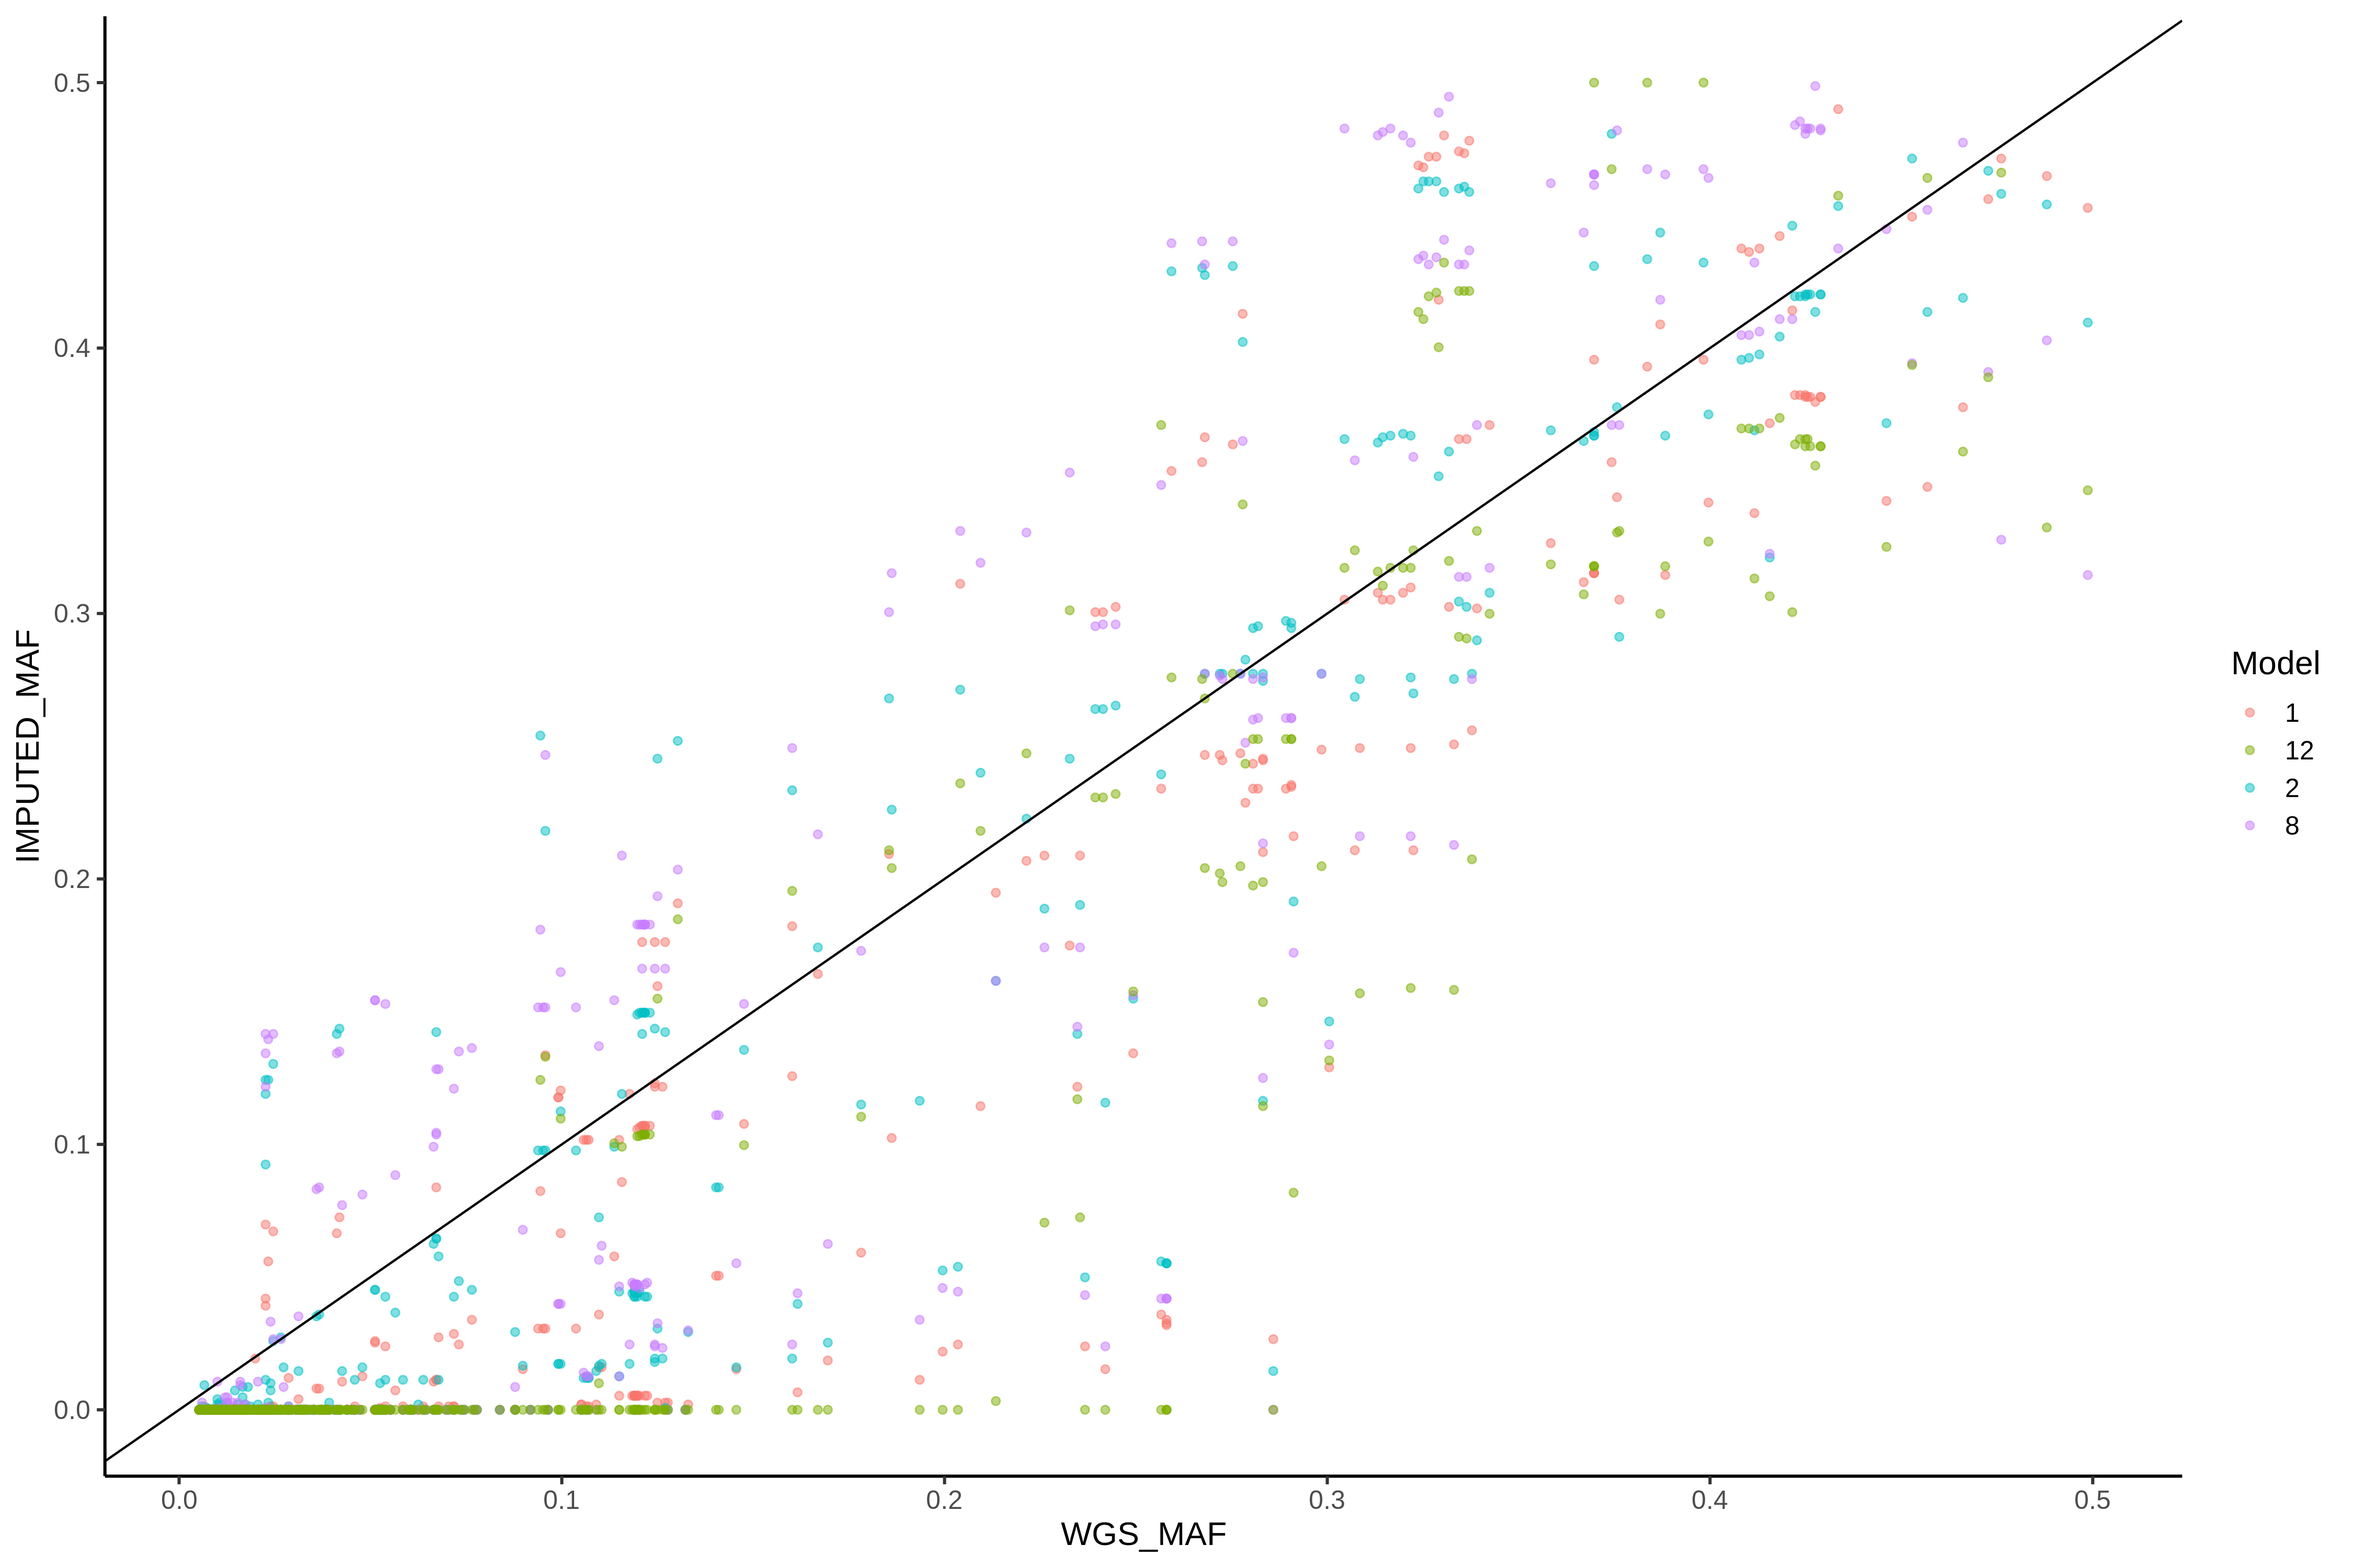
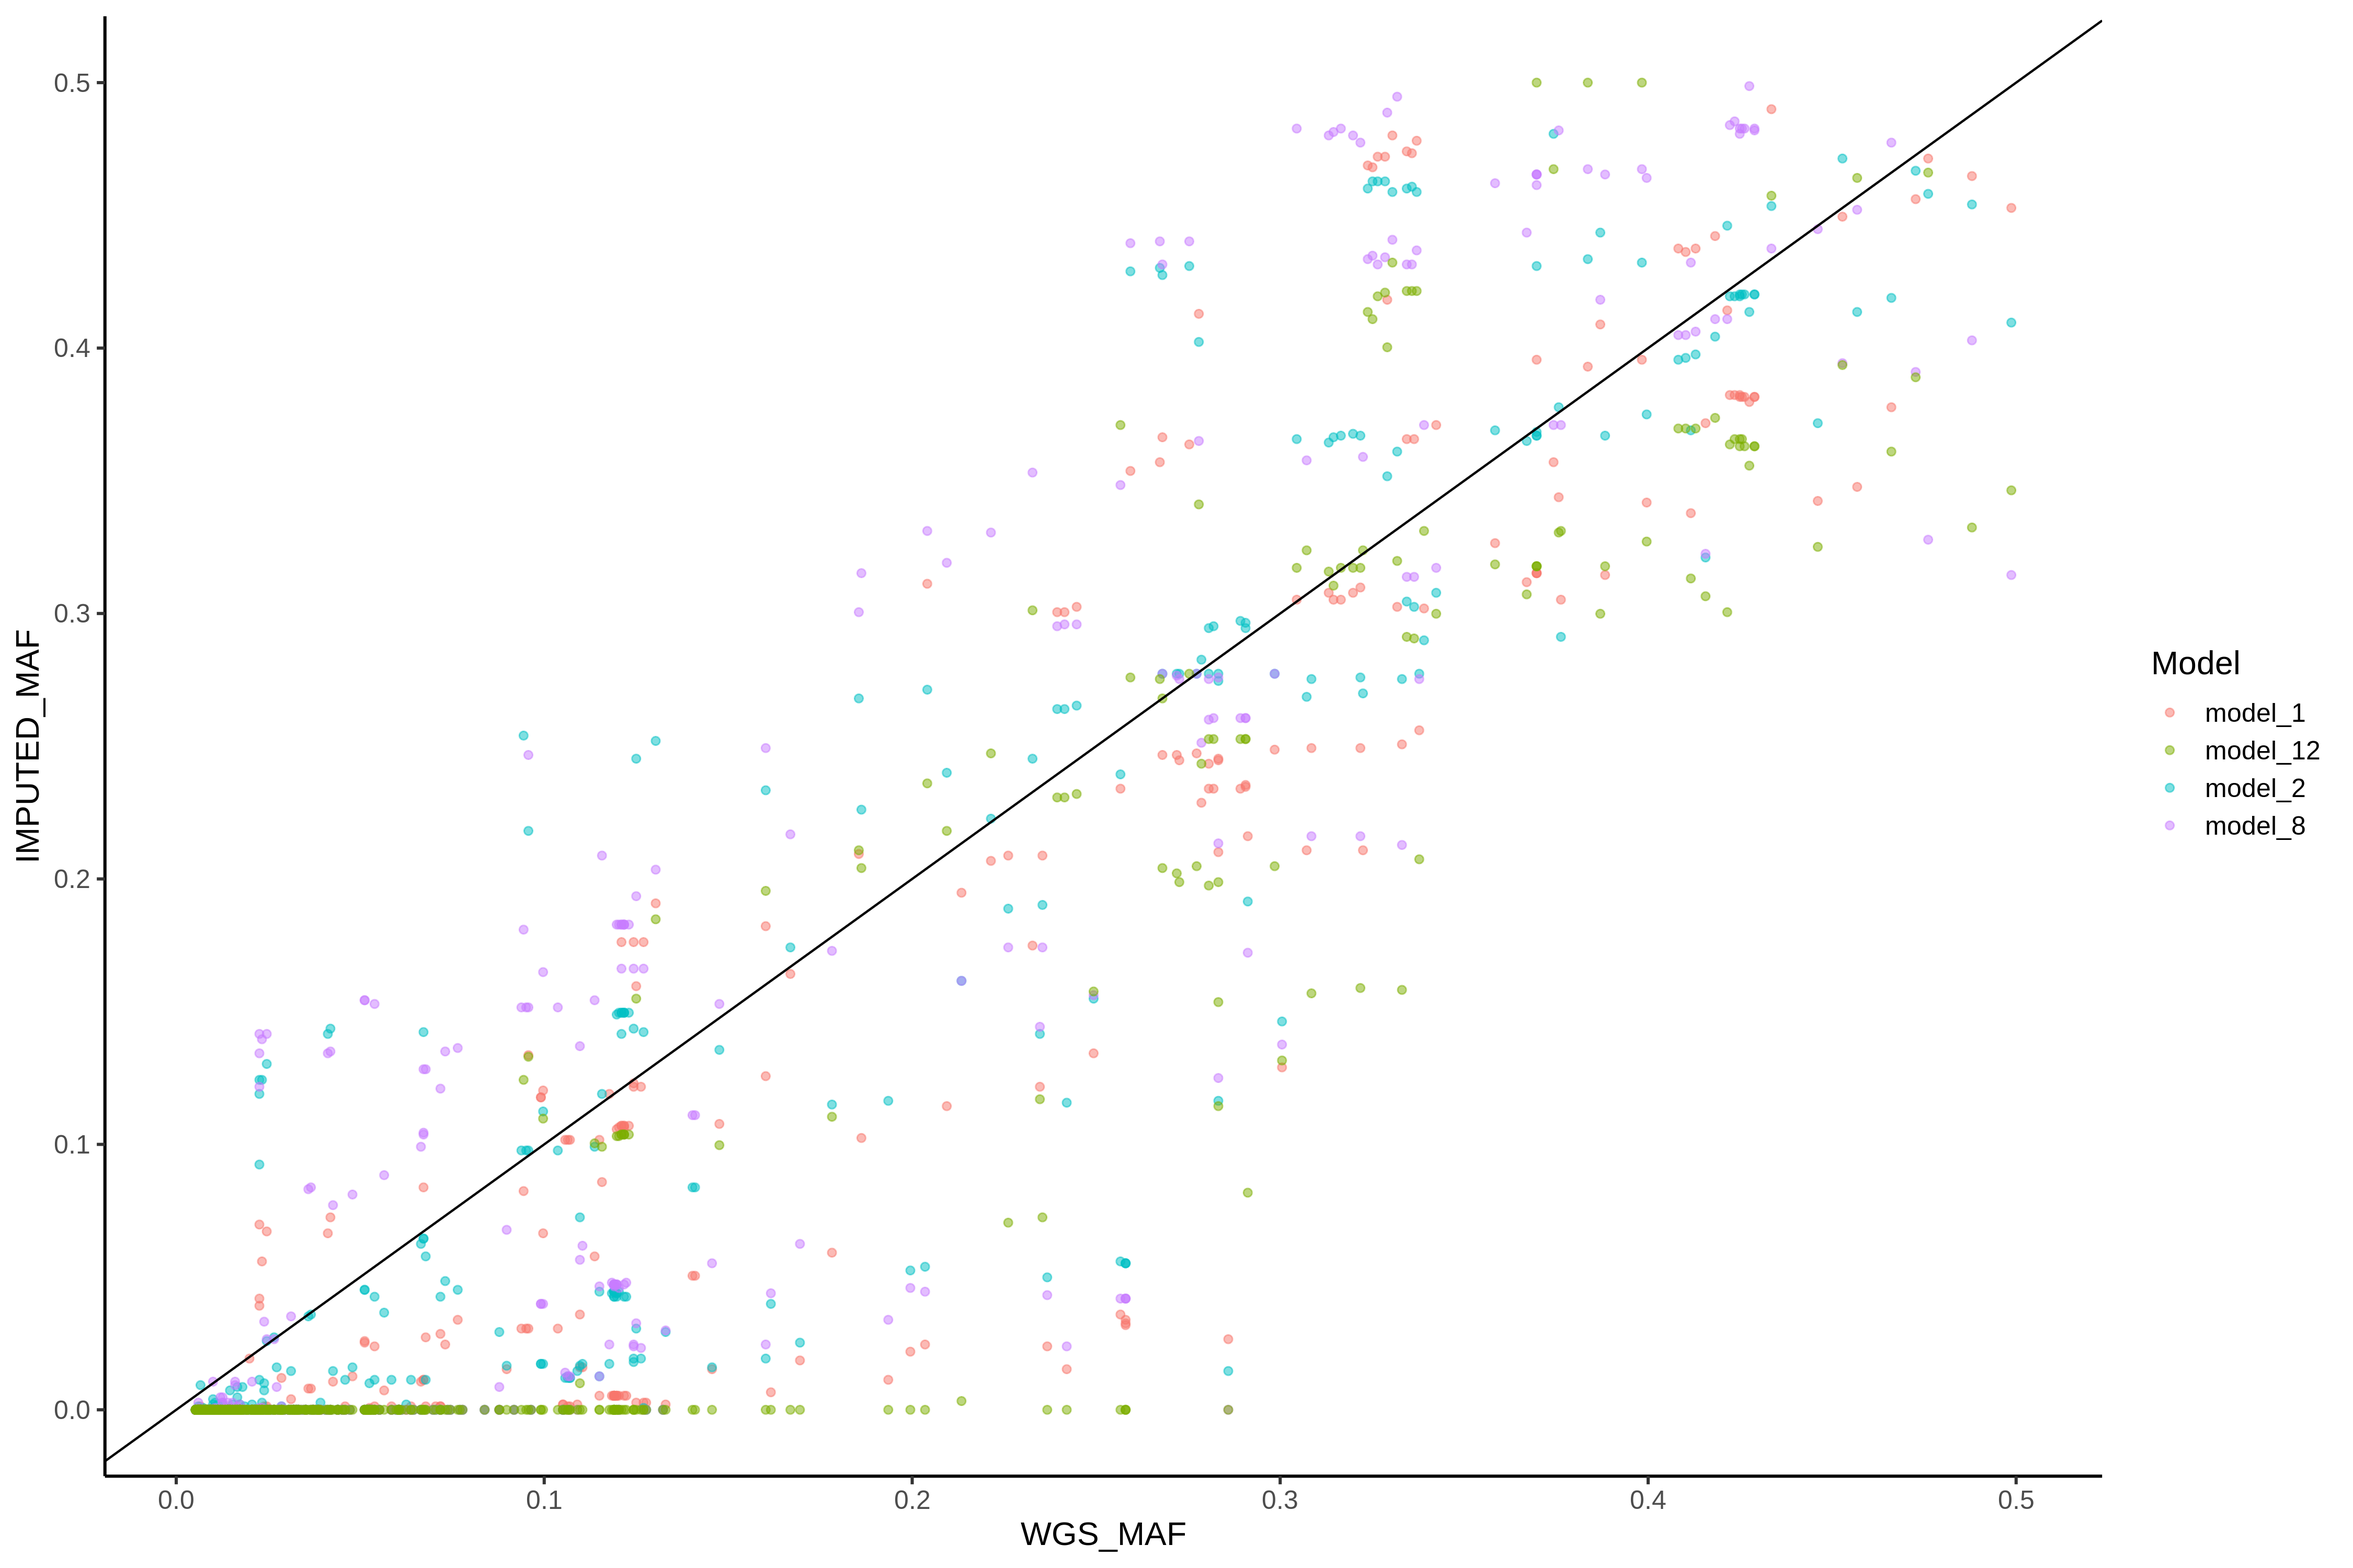
plotting improved, added correct and automatic labeling of the models, support for custom models and threshold as well

diff --git a/autoencoder_tuning_validation_pytorch/README.md b/autoencoder_tuning_validation_pytorch/README.md
@@ -52,48 +52,12 @@ CUDA_VISIBLE_DEVICES=0 python3 DSAE_TORCH_ARG.py --input my_VMV_file.vcf \
     --optimizer rmsprop --loss_type FL --n_layers 8 --size_ratio 0.7 --decay_rate 0.5
 ```
 
-I made a simple bash helper script that will do this replacement automatically:  
-
-- usage: 
-```
-bash make_training_script_from_template.sh <template.sh> <input.vcf> <max_gpus>
-```
-
-- example:
-```
-bash make_training_script_from_template.sh 100_random_hyperparameters.sh examples/HRC.r1-1.EGA.GRCh37.chr22.haplotypes.38708556-38866010.vcf.VMV1 4
-```
-
-- test:
-```
-bash make_training_script_from_template.sh 100_random_hyperparameters.sh examples/HRC.r1-1.EGA.GRCh37.chr22.haplotypes.38708556-38866010.vcf.VMV1 4
-```
-
-You will see this report giving instructions on how to run the models either sequentially or in parallel:
-```
-Sequential training script generated at HRC.r1-1.EGA.GRCh37.chr22.haplotypes.38708556-38866010.vcf.VMV1_100_random_hyperparameters.sh
-
-Parallel training script for GPU 0 at HRC.r1-1.EGA.GRCh37.chr22.haplotypes.38708556-38866010.vcf.VMV1_100_random_hyperparameters.sh.GPU0.parallel.sh
-Parallel training script for GPU 1 at HRC.r1-1.EGA.GRCh37.chr22.haplotypes.38708556-38866010.vcf.VMV1_100_random_hyperparameters.sh.GPU1.parallel.sh
-Parallel training script for GPU 2 at HRC.r1-1.EGA.GRCh37.chr22.haplotypes.38708556-38866010.vcf.VMV1_100_random_hyperparameters.sh.GPU2.parallel.sh
-Parallel training script for GPU 3 at HRC.r1-1.EGA.GRCh37.chr22.haplotypes.38708556-38866010.vcf.VMV1_100_random_hyperparameters.sh.GPU3.parallel.sh
-```
-
-Parallel run automation example, if you want to distribute multiple jobs/models per GPU.
-Let's say we are running 3 models per GPU (12 models total if you have 4 GPUs, 6 if you ave 2 GPUs, etc), for example, then the parallel runs would be like:
-```
-nohup parallel -j 3 < HRC.r1-1.EGA.GRCh37.chr22.haplotypes.38708556-38866010.vcf.VMV1_100_random_hyperparameters.sh.GPU0.parallel.sh &
-nohup parallel -j 3 < HRC.r1-1.EGA.GRCh37.chr22.haplotypes.38708556-38866010.vcf.VMV1_100_random_hyperparameters.sh.GPU1.parallel.sh &
-nohup parallel -j 3 < HRC.r1-1.EGA.GRCh37.chr22.haplotypes.38708556-38866010.vcf.VMV1_100_random_hyperparameters.sh.GPU2.parallel.sh &
-nohup parallel -j 3 < HRC.r1-1.EGA.GRCh37.chr22.haplotypes.38708556-38866010.vcf.VMV1_100_random_hyperparameters.sh.GPU3.parallel.sh &
-```
-
-You should test different values for parallel's -j argument to find out what is the maximum number of parallel models you will be able to run in a single GPU before reaching the VRAM or CPU bottleneck.
-If you are using a cluster with SLURM/TORQUE, put the "parallel -j 3 < HRC.r1-1.EGA.GRCh37.chr22.haplotypes.38708556-38866010.vcf.VMV1_100_random_hyperparameters.sh.<gpu_id>.parallel.sh" inside a SLURM sbatch job script or TORQUE qsub script
-
+I made a simple bash helper script that will do this replacement automatically and run all training jobs (see section 2.2).  
 
 
 ## 2. Train the models
+
+### 2.1 Running training (single model example)
 
 To run training, just execute the script DSAE_TORCH_ARG.py following the example listed bellow. For quick testing, only --input, --min_mask, and --max_mask are required (the hyperparameters will then be set to their default values).
 For example:
@@ -182,6 +146,48 @@ optional arguments:
                         [str] path/directory to save the model
 ```
 
+### 2.2. Running training (multiple models, automated run example)
+
+I made a simple bash helper script that will generate the training commands automatically keeping a standardized file naming syntax.
+
+- usage: 
+```
+bash make_training_script_from_template.sh <template.sh> <input.vcf> <max_gpus>
+```
+
+- example:
+```
+bash make_training_script_from_template.sh 100_random_hyperparameters.sh examples/HRC.r1-1.EGA.GRCh37.chr22.haplotypes.38708556-38866010.vcf.VMV1 4
+```
+
+- test:
+```
+bash make_training_script_from_template.sh 100_random_hyperparameters.sh examples/HRC.r1-1.EGA.GRCh37.chr22.haplotypes.38708556-38866010.vcf.VMV1 4
+```
+
+You will see this report giving instructions on how to run the models either sequentially or in parallel:
+```
+Sequential training script generated at HRC.r1-1.EGA.GRCh37.chr22.haplotypes.38708556-38866010.vcf.VMV1_100_random_hyperparameters.sh
+
+Parallel training script for GPU 0 at HRC.r1-1.EGA.GRCh37.chr22.haplotypes.38708556-38866010.vcf.VMV1_100_random_hyperparameters.sh.GPU0.parallel.sh
+Parallel training script for GPU 1 at HRC.r1-1.EGA.GRCh37.chr22.haplotypes.38708556-38866010.vcf.VMV1_100_random_hyperparameters.sh.GPU1.parallel.sh
+Parallel training script for GPU 2 at HRC.r1-1.EGA.GRCh37.chr22.haplotypes.38708556-38866010.vcf.VMV1_100_random_hyperparameters.sh.GPU2.parallel.sh
+Parallel training script for GPU 3 at HRC.r1-1.EGA.GRCh37.chr22.haplotypes.38708556-38866010.vcf.VMV1_100_random_hyperparameters.sh.GPU3.parallel.sh
+```
+
+Parallel run automation example, if you want to distribute multiple jobs/models per GPU.
+Let's say we are running 3 models per GPU (12 models total if you have 4 GPUs, 6 if you ave 2 GPUs, etc), for example, then the parallel runs would be like:
+```
+nohup parallel -j 3 < HRC.r1-1.EGA.GRCh37.chr22.haplotypes.38708556-38866010.vcf.VMV1_100_random_hyperparameters.sh.GPU0.parallel.sh &
+nohup parallel -j 3 < HRC.r1-1.EGA.GRCh37.chr22.haplotypes.38708556-38866010.vcf.VMV1_100_random_hyperparameters.sh.GPU1.parallel.sh &
+nohup parallel -j 3 < HRC.r1-1.EGA.GRCh37.chr22.haplotypes.38708556-38866010.vcf.VMV1_100_random_hyperparameters.sh.GPU2.parallel.sh &
+nohup parallel -j 3 < HRC.r1-1.EGA.GRCh37.chr22.haplotypes.38708556-38866010.vcf.VMV1_100_random_hyperparameters.sh.GPU3.parallel.sh &
+```
+
+You should test different values for parallel's -j argument to find out what is the maximum number of parallel models you will be able to run in a single GPU before reaching the VRAM or CPU bottleneck.
+If you are using a cluster with SLURM/TORQUE, put the "parallel -j 3 < HRC.r1-1.EGA.GRCh37.chr22.haplotypes.38708556-38866010.vcf.VMV1_100_random_hyperparameters.sh.<gpu_id>.parallel.sh" inside a SLURM sbatch job script or TORQUE qsub script
+
+
 ## 3. Model validation and evaluation
 
 ### 3.1. Running inference (single model example)
@@ -239,7 +245,7 @@ optional arguments:
 
 ### 3.2. Running inference (multiple models, automated run example)
 
-I made a command lime generator for the inference function, so you don't need to run model by model manually.
+I made a command line generator for the inference function, so you don't need to run model by model manually.
 You can run the inference command generator by:
 
 ```
@@ -404,16 +410,34 @@ Total run time (sec): 2.8827220732346177
 
 The results are stored in the *_per_variant.tsv and *_per_sample.tsv files.
 
-IMPORTANT: when doing inference/evaluation across multiple models it is important to keep model_id (i.e. model_1, model_2, ..., model_100) in the file name. Use the model id as a suffix like *.best_model.vcf_per_variant.tsv. If you are running the automated scripts listed in this guide, they will take care of the file name syntax and you don't need to worry about it.
+IMPORTANT: when doing inference/evaluation across multiple models it is important to keep model_id (i.e. model_1, model_2, ..., model_100) in the file name. Use the model id as a suffix like *.best_model.vcf_per_variant.tsv. If you are running the automated scripts listed in this guide, they will take care of the file name syntax and you don't need to worry about it. Please use --custom_names and --custom files if you have filenames with custom syntax if you have files that were not generated by steps 2.2, 3.2 and 3.4.
 
 ### 4. Plotting results
 
-You can adapt the plot_evaluation_results_per_variant.R to generate the accruacy metrics per MAF bin. The input file are the per variant metrics generated in pre previous step (--vout output files).
+WARNING! This tool only works if you followed steps 2.2, 3.2 and 3.4! It fails without the file naming syntax generated in those steps. Otherwise you have to use the custom flags only, no positional arguments.
+
+The input files are the per variant metrics generated in pre previous step (--vout output files).
 ```
-Rscript plot_evaluation_results_per_variant.R <vout.tsv>
+Rscript plot_evaluation_results_per_variant.R
+
+Usage:
+    Rscript plot_evaluation_results_per_variant.R <tsv_files> <options>
+Example:
+    Rscript plot_evaluation_results_per_variant.R ./evaluation_results/*_per_variant.tsv --threshold 0.95 --custom_files custom_file1.tsv custom_file2.tsv --custom_names custom_name1 custom_name2
+Positional arguments:
+    <tsv_files> Evaluation result file names(s), multiple files supported.
+Options (all optional):
+    --threshold [float]: Minimum correlation threshold (WGS vs imputed MAF correl) between -1 and 1, default=0.90
+    --custom_files [str, list]: list of custom evaluation results from other tools
+    --custom_names [str, list]: list of names for the custom evaluation results from other tools (i.e. minimac)
 ```
 
 For example:
+```
+Rscript plot_evaluation_results_per_variant.R c1_ARIC_WGS_Freeze3.lifted_already_GRCh37.GH.ancestry-1-5.chr22.phased.38708556-38866010.vcf.VMV1.masked.imputed.best_model.vcf_per_variant.tsv
+```
+
+The *.imputed.* and *.vcf_per_variant.tsv prefixes an suffixes are required to make this plotting script work. For example, this command would fail because of the wrong file naming syntax!!!
 ```
 Rscript plot_evaluation_results_per_variant.R examples/c1_ARIC_WGS_Freeze3.lifted_already_GRCh37.GH.ancestry-1-5.chr22.phased.38708556-38866010.vcf.VMV1.masked.gz.best_model.vcf.gz_per_variant.tsv
 ```
@@ -423,7 +447,7 @@ Multiple files can be specified at once using asterisk, for example:
 Rscript plot_evaluation_results_per_variant.R ./plots/*per_variant.tsv
 ```
 
-Only results with IMPUTED_MAF versus WGS_MAF correlation higher than 0.90 will be displayed (to avoid plotting artifacts).
+Only results with IMPUTED_MAF versus WGS_MAF correlation higher than 0.90 will be displayed (to avoid plotting artifacts). But you can change that threshold using --threshold option.
 If you provide multiple --vout output files at one run, you will see multiple accuracy curves. 
 
 
